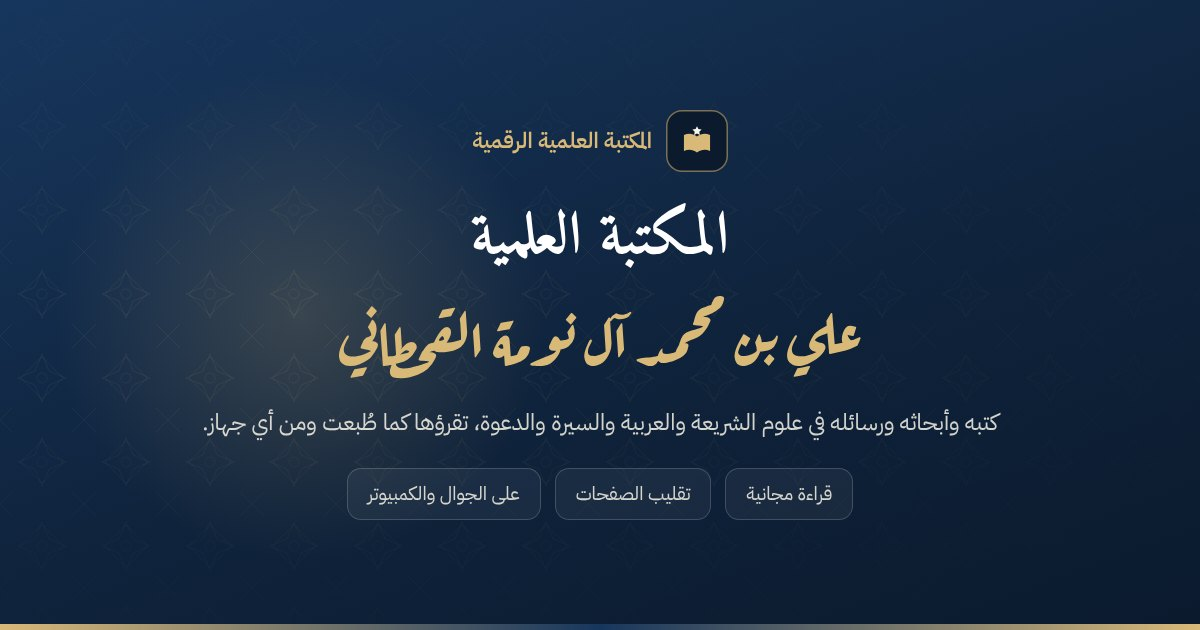
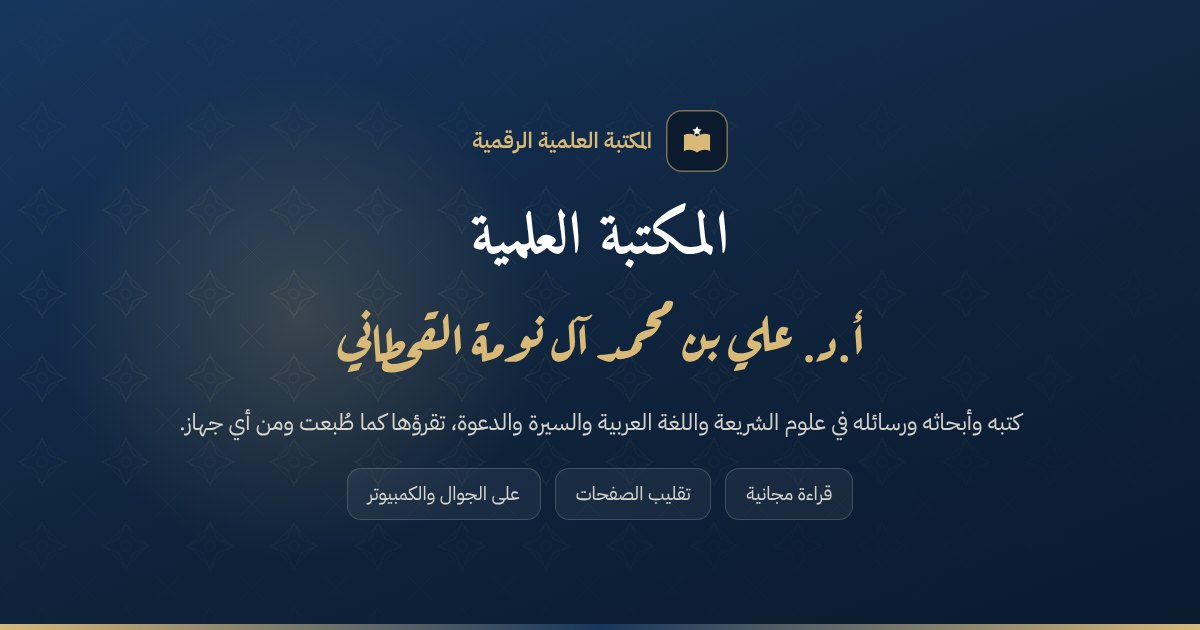
«أ.د.» قبل اسم الدكتور في الشعار والتذييل، وتسمية المجموعة «علوم اللغة العربية»
Claude-Session: https://claude.ai/code/session_01Hvw5DNejV4kfvrJHEvrq2q

Changed region(s): [[0.2775, 0.4524, 0.74, 0.6032], [0.1542, 0.6333, 0.8633, 0.6937]]

diff --git a/index.html b/index.html
@@ -6,12 +6,12 @@
 <meta name="viewport" content="width=device-width,initial-scale=1">
 <!-- SHARE:START (يُولَّد تلقائياً: python3 tools/configure.py رابط-الموقع) -->
 <title>المكتبة العلمية — مؤلفات أ.د. علي بن محمد آل نومة القحطاني</title>
-<meta name="description" content="مكتبة رقمية مجانية لـمؤلفات أ.د. علي بن محمد آل نومة القحطاني: كتبه وأبحاثه ورسائله في علوم الشريعة والعربية والسيرة والدعوة، تقرؤها كما طُبعت ومن أي جهاز.، تُقرأ بتقليب الصفحات على الجوال والكمبيوتر.">
+<meta name="description" content="مكتبة رقمية مجانية لـمؤلفات أ.د. علي بن محمد آل نومة القحطاني: كتبه وأبحاثه ورسائله في علوم الشريعة واللغة العربية والسيرة والدعوة، تقرؤها كما طُبعت ومن أي جهاز.، تُقرأ بتقليب الصفحات على الجوال والكمبيوتر.">
 <meta property="og:type" content="website">
 <meta property="og:locale" content="ar_SA">
 <meta property="og:site_name" content="مؤلفات أ.د. علي بن محمد آل نومة القحطاني">
 <meta property="og:title" content="المكتبة العلمية — مؤلفات أ.د. علي بن محمد آل نومة القحطاني">
-<meta property="og:description" content="مكتبة رقمية مجانية لـمؤلفات أ.د. علي بن محمد آل نومة القحطاني: كتبه وأبحاثه ورسائله في علوم الشريعة والعربية والسيرة والدعوة، تقرؤها كما طُبعت ومن أي جهاز.، تُقرأ بتقليب الصفحات على الجوال والكمبيوتر.">
+<meta property="og:description" content="مكتبة رقمية مجانية لـمؤلفات أ.د. علي بن محمد آل نومة القحطاني: كتبه وأبحاثه ورسائله في علوم الشريعة واللغة العربية والسيرة والدعوة، تقرؤها كما طُبعت ومن أي جهاز.، تُقرأ بتقليب الصفحات على الجوال والكمبيوتر.">
 <meta property="og:url" content="https://mohdalshehri.github.io/ali-alnomah/">
 <meta property="og:image" content="https://mohdalshehri.github.io/ali-alnomah/assets/og.jpg">
 <meta property="og:image:secure_url" content="https://mohdalshehri.github.io/ali-alnomah/assets/og.jpg">
@@ -21,7 +21,7 @@
 <meta property="og:image:alt" content="المكتبة العلمية — مؤلفات أ.د. علي بن محمد آل نومة القحطاني">
 <meta name="twitter:card" content="summary_large_image">
 <meta name="twitter:title" content="المكتبة العلمية — مؤلفات أ.د. علي بن محمد آل نومة القحطاني">
-<meta name="twitter:description" content="مكتبة رقمية مجانية لـمؤلفات أ.د. علي بن محمد آل نومة القحطاني: كتبه وأبحاثه ورسائله في علوم الشريعة والعربية والسيرة والدعوة، تقرؤها كما طُبعت ومن أي جهاز.، تُقرأ بتقليب الصفحات على الجوال والكمبيوتر.">
+<meta name="twitter:description" content="مكتبة رقمية مجانية لـمؤلفات أ.د. علي بن محمد آل نومة القحطاني: كتبه وأبحاثه ورسائله في علوم الشريعة واللغة العربية والسيرة والدعوة، تقرؤها كما طُبعت ومن أي جهاز.، تُقرأ بتقليب الصفحات على الجوال والكمبيوتر.">
 <meta name="twitter:image" content="https://mohdalshehri.github.io/ali-alnomah/assets/og.jpg">
 <link rel="canonical" href="https://mohdalshehri.github.io/ali-alnomah/">
 <!-- SHARE:END -->
@@ -154,7 +154,7 @@
 <style>#shelf>noscript{display:block;grid-column:1/-1}.seo-ns{line-height:1.9}.seo-ns h2{font-family:var(--display);color:var(--emerald);margin:0 0 6px}.seo-ns h3{color:var(--gold);margin:22px 0 6px;font-size:18px}.seo-ns ul{margin:0;padding-inline-start:22px}.seo-ns a{color:var(--ink)}</style>
 <section class="seo-ns" aria-label="قائمة الكتب">
 <h2>مؤلفات أ.د. علي بن محمد آل نومة القحطاني — أ.د. علي بن محمد آل نومة القحطاني</h2>
-<p>كتبه وأبحاثه ورسائله في علوم الشريعة والعربية والسيرة والدعوة، تقرؤها كما طُبعت ومن أي جهاز: كتابان تُقرأ مجاناً بتقليب الصفحات على الجوال والكمبيوتر.</p>
+<p>كتبه وأبحاثه ورسائله في علوم الشريعة واللغة العربية والسيرة والدعوة، تقرؤها كما طُبعت ومن أي جهاز: كتابان تُقرأ مجاناً بتقليب الصفحات على الجوال والكمبيوتر.</p>
 <h3>البلاغة</h3><ul><li><a href="kitab/b02.html">خصائص التراكيب في آيات العقيدة وأثرها في تقرير المعنى</a></li></ul>
 <h3>المشاركات العلمية</h3><ul><li><a href="kitab/b01.html">أثر القواعد الفقهية الكبرى في ضبط الاستعانة بالذكاء الاصطناعي في البحث الفقهي</a></li></ul>
 </section>

diff --git a/read.html b/read.html
@@ -6,12 +6,12 @@
 <meta name="viewport" content="width=device-width,initial-scale=1,viewport-fit=cover">
 <!-- SHARE:START (يُولَّد تلقائياً: python3 tools/configure.py رابط-الموقع) -->
 <title>المكتبة العلمية — مؤلفات أ.د. علي بن محمد آل نومة القحطاني</title>
-<meta name="description" content="مكتبة رقمية مجانية لـمؤلفات أ.د. علي بن محمد آل نومة القحطاني: كتبه وأبحاثه ورسائله في علوم الشريعة والعربية والسيرة والدعوة، تقرؤها كما طُبعت ومن أي جهاز.، تُقرأ بتقليب الصفحات على الجوال والكمبيوتر.">
+<meta name="description" content="مكتبة رقمية مجانية لـمؤلفات أ.د. علي بن محمد آل نومة القحطاني: كتبه وأبحاثه ورسائله في علوم الشريعة واللغة العربية والسيرة والدعوة، تقرؤها كما طُبعت ومن أي جهاز.، تُقرأ بتقليب الصفحات على الجوال والكمبيوتر.">
 <meta property="og:type" content="website">
 <meta property="og:locale" content="ar_SA">
 <meta property="og:site_name" content="مؤلفات أ.د. علي بن محمد آل نومة القحطاني">
 <meta property="og:title" content="المكتبة العلمية — مؤلفات أ.د. علي بن محمد آل نومة القحطاني">
-<meta property="og:description" content="مكتبة رقمية مجانية لـمؤلفات أ.د. علي بن محمد آل نومة القحطاني: كتبه وأبحاثه ورسائله في علوم الشريعة والعربية والسيرة والدعوة، تقرؤها كما طُبعت ومن أي جهاز.، تُقرأ بتقليب الصفحات على الجوال والكمبيوتر.">
+<meta property="og:description" content="مكتبة رقمية مجانية لـمؤلفات أ.د. علي بن محمد آل نومة القحطاني: كتبه وأبحاثه ورسائله في علوم الشريعة واللغة العربية والسيرة والدعوة، تقرؤها كما طُبعت ومن أي جهاز.، تُقرأ بتقليب الصفحات على الجوال والكمبيوتر.">
 <meta property="og:image" content="https://mohdalshehri.github.io/ali-alnomah/assets/og.jpg">
 <meta property="og:image:secure_url" content="https://mohdalshehri.github.io/ali-alnomah/assets/og.jpg">
 <meta property="og:image:type" content="image/jpeg">
@@ -20,7 +20,7 @@
 <meta property="og:image:alt" content="المكتبة العلمية — مؤلفات أ.د. علي بن محمد آل نومة القحطاني">
 <meta name="twitter:card" content="summary_large_image">
 <meta name="twitter:title" content="المكتبة العلمية — مؤلفات أ.د. علي بن محمد آل نومة القحطاني">
-<meta name="twitter:description" content="مكتبة رقمية مجانية لـمؤلفات أ.د. علي بن محمد آل نومة القحطاني: كتبه وأبحاثه ورسائله في علوم الشريعة والعربية والسيرة والدعوة، تقرؤها كما طُبعت ومن أي جهاز.، تُقرأ بتقليب الصفحات على الجوال والكمبيوتر.">
+<meta name="twitter:description" content="مكتبة رقمية مجانية لـمؤلفات أ.د. علي بن محمد آل نومة القحطاني: كتبه وأبحاثه ورسائله في علوم الشريعة واللغة العربية والسيرة والدعوة، تقرؤها كما طُبعت ومن أي جهاز.، تُقرأ بتقليب الصفحات على الجوال والكمبيوتر.">
 <meta name="twitter:image" content="https://mohdalshehri.github.io/ali-alnomah/assets/og.jpg">
 <!-- SHARE:END -->
 <link rel="apple-touch-icon" href="assets/apple-touch-icon.png">

diff --git a/kitab/b01.html b/kitab/b01.html
@@ -79,7 +79,7 @@
   <div class="wrap">
     <a class="brand" href="../" aria-label="الصفحة الرئيسية">
       <span class="brand-mark"><svg viewBox="0 0 64 64" aria-hidden="true"><path d="M10 22c8-3.5 15-2.5 22 2.5v27c-7-5-14-6-22-2.5z M54 22c-8-3.5-15-2.5-22 2.5v27c7-5 14-6 22-2.5z" style="fill:var(--t-accent)"/><path d="M32 7l2.4 4.9 5.4.8-3.9 3.8.9 5.4L32 19.4l-4.8 2.5.9-5.4-3.9-3.8 5.4-.8z" style="fill:var(--t-bg)"/></svg></span>
-      <span class="brand-txt has-art"><b class="sr">مؤلفات أ.د.</b><small class="sr">علي بن محمد آل نومة القحطاني</small><span class="name-art" role="img" aria-label="علي بن محمد آل نومة القحطاني" style="--na:url(&quot;https://mohdalshehri.github.io/ali-alnomah/assets/name.svg&quot;)"></span></span>
+      <span class="brand-txt has-art"><b class="sr">مؤلفات</b><small class="sr">أ.د. علي بن محمد آل نومة القحطاني</small><span class="name-art" role="img" aria-label="أ.د. علي بن محمد آل نومة القحطاني" style="--na:url(&quot;https://mohdalshehri.github.io/ali-alnomah/assets/name.svg&quot;)"></span></span>
     </a>
   </div>
 </header>

diff --git a/kitab/b02.html b/kitab/b02.html
@@ -79,7 +79,7 @@
   <div class="wrap">
     <a class="brand" href="../" aria-label="الصفحة الرئيسية">
       <span class="brand-mark"><svg viewBox="0 0 64 64" aria-hidden="true"><path d="M10 22c8-3.5 15-2.5 22 2.5v27c-7-5-14-6-22-2.5z M54 22c-8-3.5-15-2.5-22 2.5v27c7-5 14-6 22-2.5z" style="fill:var(--t-accent)"/><path d="M32 7l2.4 4.9 5.4.8-3.9 3.8.9 5.4L32 19.4l-4.8 2.5.9-5.4-3.9-3.8 5.4-.8z" style="fill:var(--t-bg)"/></svg></span>
-      <span class="brand-txt has-art"><b class="sr">مؤلفات أ.د.</b><small class="sr">علي بن محمد آل نومة القحطاني</small><span class="name-art" role="img" aria-label="علي بن محمد آل نومة القحطاني" style="--na:url(&quot;https://mohdalshehri.github.io/ali-alnomah/assets/name.svg&quot;)"></span></span>
+      <span class="brand-txt has-art"><b class="sr">مؤلفات</b><small class="sr">أ.د. علي بن محمد آل نومة القحطاني</small><span class="name-art" role="img" aria-label="أ.د. علي بن محمد آل نومة القحطاني" style="--na:url(&quot;https://mohdalshehri.github.io/ali-alnomah/assets/name.svg&quot;)"></span></span>
     </a>
   </div>
 </header>
